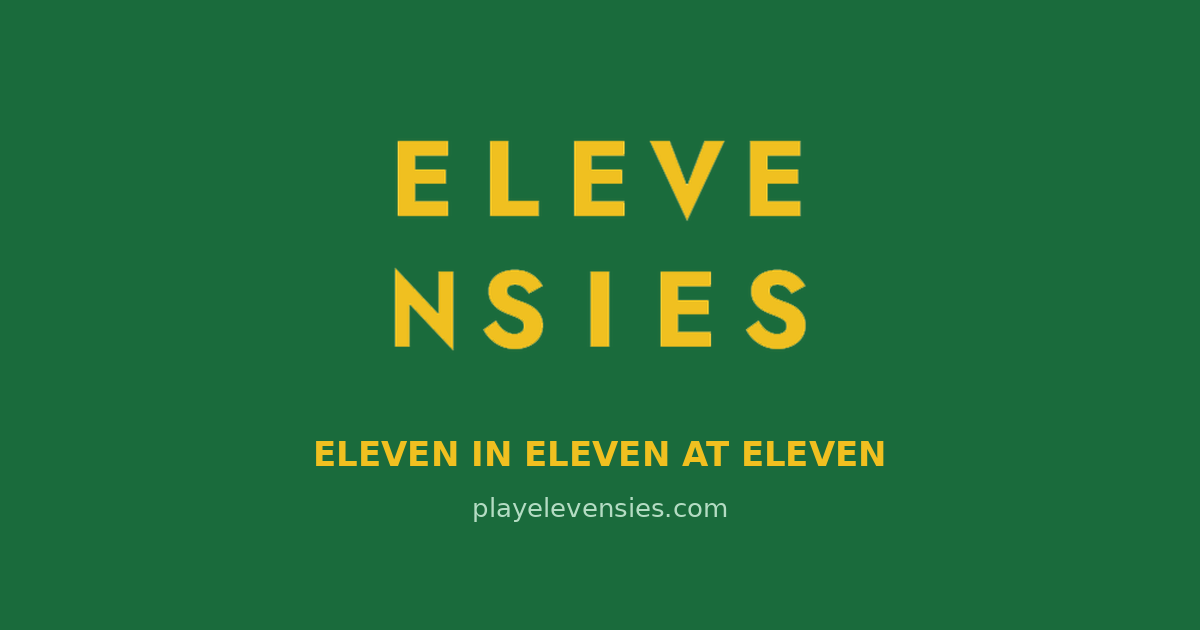
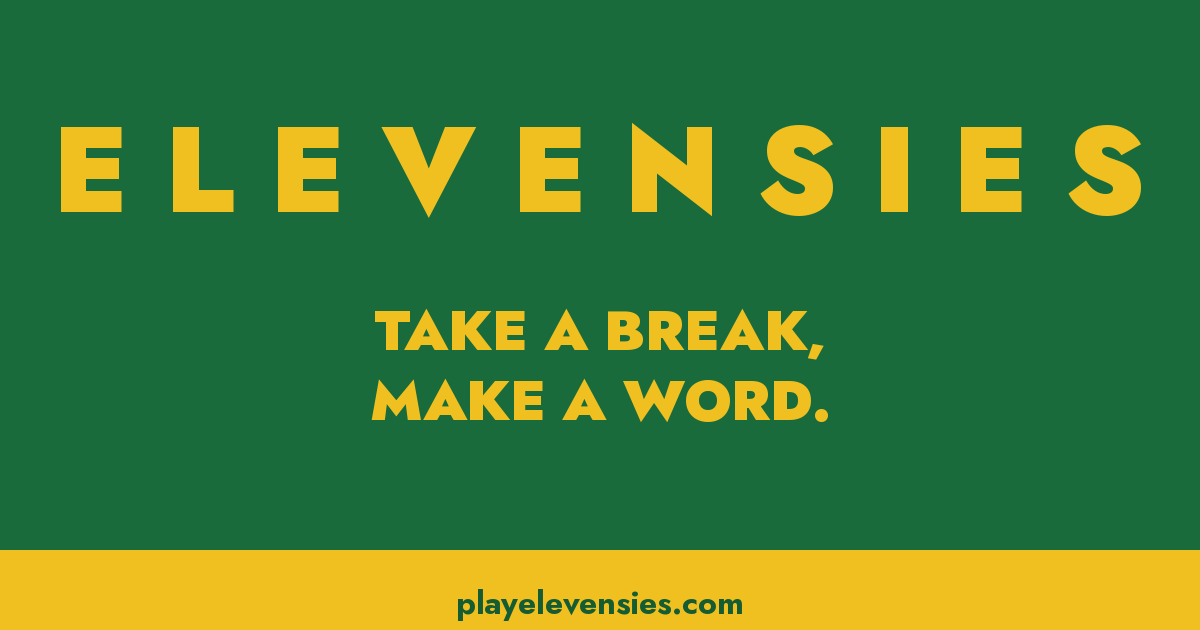
Add files via upload

diff --git a/index.html b/index.html
@@ -3,8 +3,8 @@
 <head>
 <meta charset="UTF-8">
 <meta name="viewport" content="width=device-width, initial-scale=1.0, maximum-scale=1.0, user-scalable=no">
-<title>Elevensies — The Daily Word Game</title>
-<meta name="description" content="Elevensies is a free daily word game. Play 11 turns at 11am — score points, build streaks, and top the leaderboard. A new puzzle every day at playelevensies.com">
+<title>Elevensies — Take a Break, Make a Word.</title>
+<meta name="description" content="Elevensies — take a break, make a word. Score points, build streaks, and top the leaderboard across five word game modes at playelevensies.com">
 <meta name="robots" content="index, follow">
 <link rel="canonical" href="https://playelevensies.com">
 <meta name="theme-color" content="#1a6b3c">
@@ -12,8 +12,8 @@
 <meta name="apple-mobile-web-app-title" content="Elevensies">
 <meta name="apple-mobile-web-app-capable" content="yes">
 <meta name="apple-mobile-web-app-status-bar-style" content="black-translucent">
-<meta property="og:title" content="Elevensies — The Daily Word Game">
-<meta property="og:description" content="A free daily word game. Play 11 turns at 11am — score points, build streaks, and top the leaderboard. New puzzle every day.">
+<meta property="og:title" content="Elevensies — Take a Break, Make a Word.">
+<meta property="og:description" content="Take a break, make a word. Score points, build streaks, and top the leaderboard across five word game modes.">
 <meta property="og:type" content="website">
 <meta property="og:url" content="https://playelevensies.com">
 <meta property="og:image" content="https://playelevensies.com/og-image.png">
@@ -22,8 +22,8 @@
 <meta property="og:site_name" content="Elevensies">
 <meta property="og:locale" content="en_GB">
 <meta name="twitter:card" content="summary_large_image">
-<meta name="twitter:title" content="Elevensies — The Daily Word Game">
-<meta name="twitter:description" content="A free daily word game. Play 11 turns at 11am — score points, build streaks, and top the leaderboard.">
+<meta name="twitter:title" content="Elevensies — Take a Break, Make a Word.">
+<meta name="twitter:description" content="Take a break, make a word. Score points, build streaks, and top the leaderboard.">
 <meta name="twitter:image" content="https://playelevensies.com/og-image.png">
 <link rel="icon" type="image/x-icon" href="/favicon.ico">
 <link rel="icon" type="image/png" sizes="32x32" href="/favicon.png">
@@ -2075,7 +2075,7 @@
         <!-- Step 0: Opening -->
         <div class="how-to-step" id="howToStep0" style="position:absolute;inset:0;text-align:center;display:flex;flex-direction:column;align-items:center;justify-content:center;padding-bottom:8px;">
           <div style="font-size:13px;letter-spacing:0.2em;color:var(--gold);margin-bottom:8px;font-weight:700;">ELEVENSIES</div>
-          <div style="font-size:28px;font-weight:900;letter-spacing:0.04em;margin-bottom:8px;line-height:1.2;">ELEVEN IN<br>ELEVEN AT<br>ELEVEN</div>
+          <div style="font-size:28px;font-weight:900;letter-spacing:0.04em;margin-bottom:8px;line-height:1.2;">TAKE A BREAK,<br>MAKE A WORD.</div>
           <div style="font-size:12px;letter-spacing:0.08em;opacity:0.65;line-height:1.7;">One game per day.<br>Opens 11am. Closes 2pm.<br>Your score goes on the leaderboard.</div>
           <div style="margin-top:20px;display:flex;justify-content:center;gap:6px;flex-wrap:wrap;">
             <div class="how-to-tile how-to-tile-sel">T<span class="how-to-pts">1</span></div>
@@ -2519,7 +2519,7 @@
       <p>TILES ARE WORTH THEIR CLASSIC LETTER VALUE. RARER LETTERS SCORE MORE.</p>
       <p>ONCE PER GAME YOU CAN REVEAL AN <strong>11TH BONUS TILE</strong> — USE IT OR IGNORE IT. IT'S GONE IF YOU USE IT.</p>
       <p>YOUR SCORE IS THE TOTAL OF ALL WORDS PLAYED ACROSS ALL 11 TURNS.</p>
-      <p><strong>FULL GAME</strong> — ELEVEN IN ELEVEN AT ELEVEN. YOUR SCORE COUNTS EVEN IF YOU DON'T FINISH — BUT YOU ONLY GET ONE GO PER DAY.</p>
+      <p><strong>FULL GAME</strong> — TAKE A BREAK, MAKE A WORD. YOUR SCORE COUNTS EVEN IF YOU DON'T FINISH — BUT YOU ONLY GET ONE GO PER DAY.</p>
       <p><strong>PRACTICE</strong> — AVAILABLE ANY TIME. SCORES DON'T COUNT.</p>
     </div>
     <button class="cancel-btn" id="howToCloseBtn">GOT IT</button>